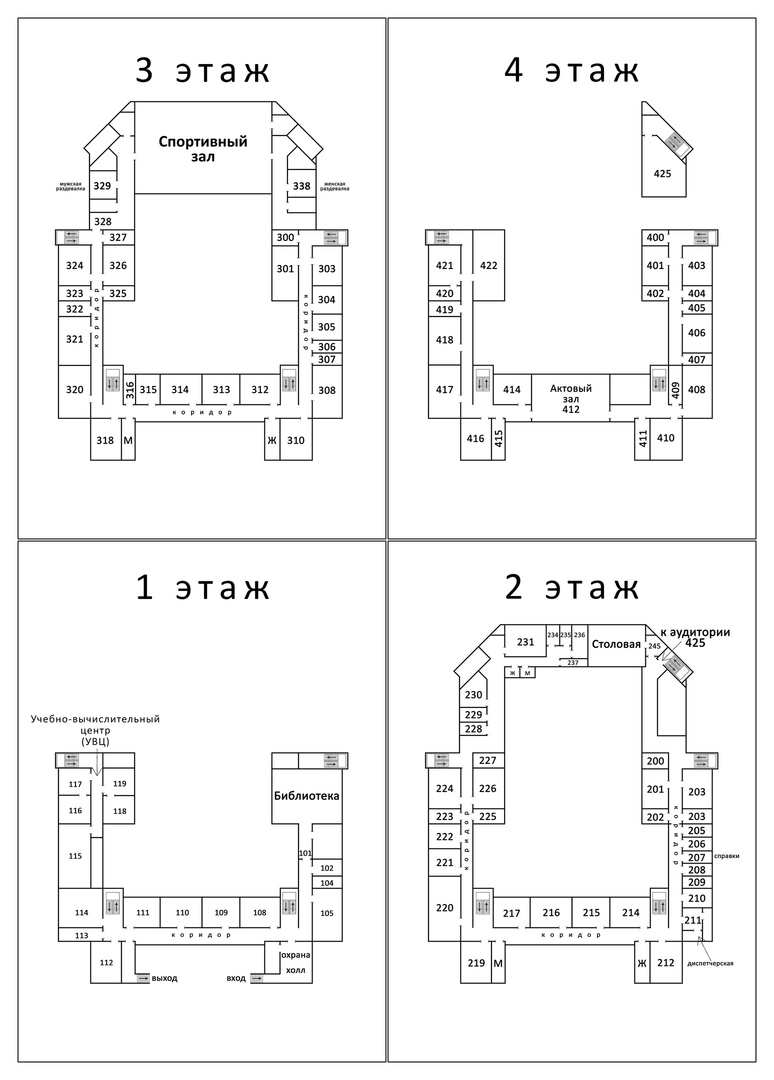
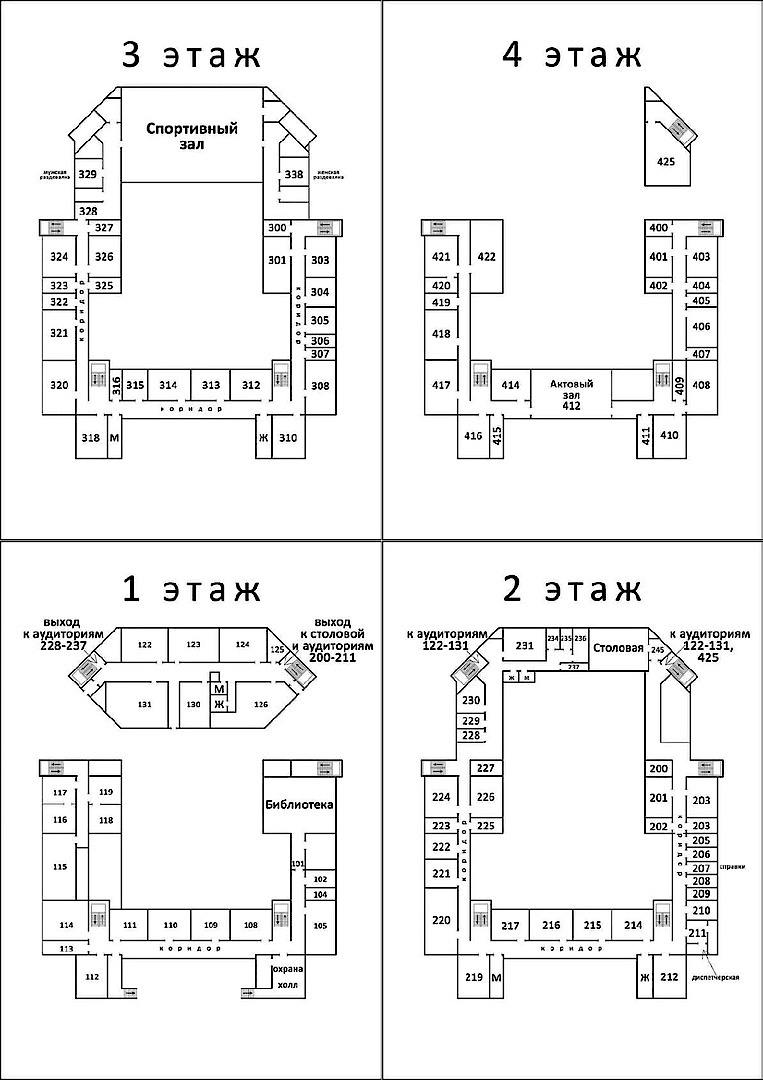
Исправление багов и обновление схемы техникума.

Changed region(s): [[0.0, 0.0, 1.0, 1.0]]

diff --git a/lib/views/navigator_view.dart b/lib/views/navigator_view.dart
@@ -37,7 +37,7 @@ class _NavigatorViewState extends State<NavigatorView>
   final _transformationController = TransformationController();
 
   late String _previousOrSingleClassroom;
-  late String _nextClassroom;
+  // late String _nextClassroom;
 
   double? oldMarkerLeft;
   double? oldMarkerTop;
@@ -71,7 +71,7 @@ class _NavigatorViewState extends State<NavigatorView>
     // var data = storage.readState(context, identifier: widget.key);
     // if (data == null) {
     _previousOrSingleClassroom = widget.previousOrSingleClassroom;
-    _nextClassroom = widget.nextClassroom;
+    // _nextClassroom = widget.nextClassroom;
     // } else {
     //   _previousOrSingleClassroom = data[0];
     //   _nextClassroom = data[1];
@@ -233,7 +233,7 @@ class _NavigatorViewState extends State<NavigatorView>
                     // storage.writeState(context, ['', ''],
                     //     identifier: widget.key);
                     _previousOrSingleClassroom = '';
-                    _nextClassroom = '';
+                    // _nextClassroom = '';
                     _animateResetStop();
                     _animateResetInitialize(true);
                   },

diff --git a/lib/models.dart b/lib/models.dart
@@ -8,6 +8,7 @@ part 'models.g.dart';
 const Map<String, Tuple2<double, double>> classrooms = {
   //Первый этаж
   '101': Tuple2(305, 826),
+  'библиотека': Tuple2(305, 826),
   '102': Tuple2(337, 866),
   '104': Tuple2(337, 882),
   '105': Tuple2(337, 929),
@@ -23,6 +24,12 @@ const Map<String, Tuple2<double, double>> classrooms = {
   '117': Tuple2(64, 778),
   '118': Tuple2(127, 804),
   '119': Tuple2(130, 777),
+  '122': Tuple2(129, 641),
+  '123': Tuple2(177, 641),
+  '124': Tuple2(227, 641),
+  '126': Tuple2(243, 706),
+  '130': Tuple2(187, 690),
+  '131': Tuple2(118, 703),
 
   //Второй этаж
   '200': Tuple2(664, 761),
@@ -102,7 +109,7 @@ const Map<String, Tuple2<double, double>> classrooms = {
   '409': Tuple2(670, 390),
   '410': Tuple2(678, 455),
   '411': Tuple2(637, 455),
-  'Актовый зал': Tuple2(571, 379),
+  'актовый зал': Tuple2(571, 379),
   '414': Tuple2(513, 379),
   '415': Tuple2(504, 455),
   '416': Tuple2(464, 455),

diff --git a/lib/views/settings_view.dart b/lib/views/settings_view.dart
@@ -179,7 +179,7 @@ class _SettingsViewState extends State<SettingsView> {
               children: const [
                 Expanded(
                   child: Text(
-                    'Приложение разработано Павлом Симоняном в 2022 году',
+                    'Приложение разработано студентом Павлом Симоняном в 2022 году',
                     textAlign: TextAlign.center,
                     overflow: TextOverflow.ellipsis,
                     maxLines: 2,

diff --git a/lib/views/overview_page.dart b/lib/views/overview_page.dart
@@ -212,8 +212,9 @@ class _OverviewPageState extends State<OverviewPage> {
       Fluttertoast.showToast(
           msg:
               'Открытых данных о расписании в ВЦ не имеется, проверить расположение невозможно');
+      return;
     }
-    if (classrooms[classroom] != null) {
+    if (classrooms[classroom.toLowerCase()] != null) {
       setState(() {
         _searchedClassroom = classroom;
         appbarAnimationDirection = true;

diff --git a/lib/workers/background_worker.dart b/lib/workers/background_worker.dart
@@ -24,7 +24,7 @@ void _backgroundFunc() async {
     log(e.toString());
   } finally {
     await AndroidAlarmManager.oneShot(
-        Duration(minutes: DateTime.now().hour < 8 ? 60 : 2),
+        Duration(minutes: DateTime.now().hour < 8 ? 90 : 3),
         helloAlarmID,
         _backgroundFunc,
         exact: true,
